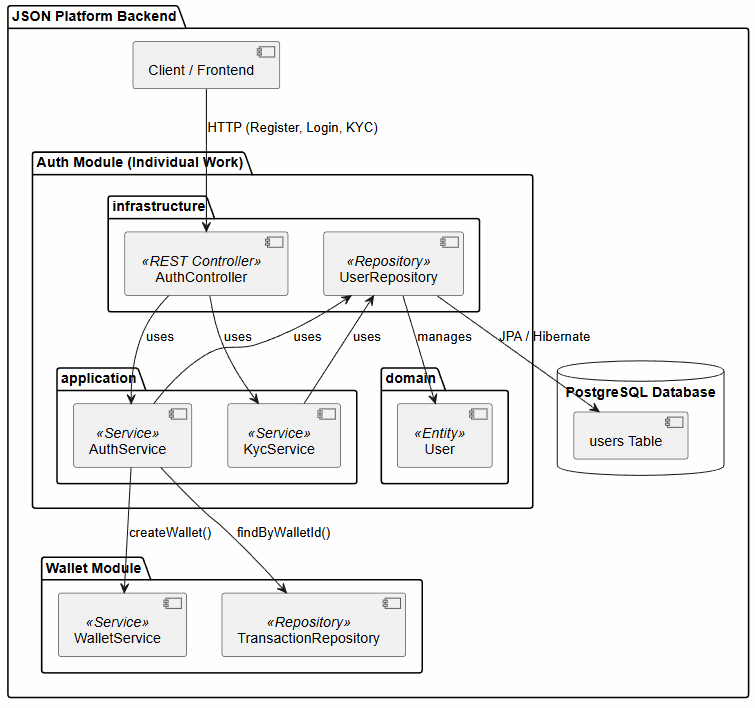
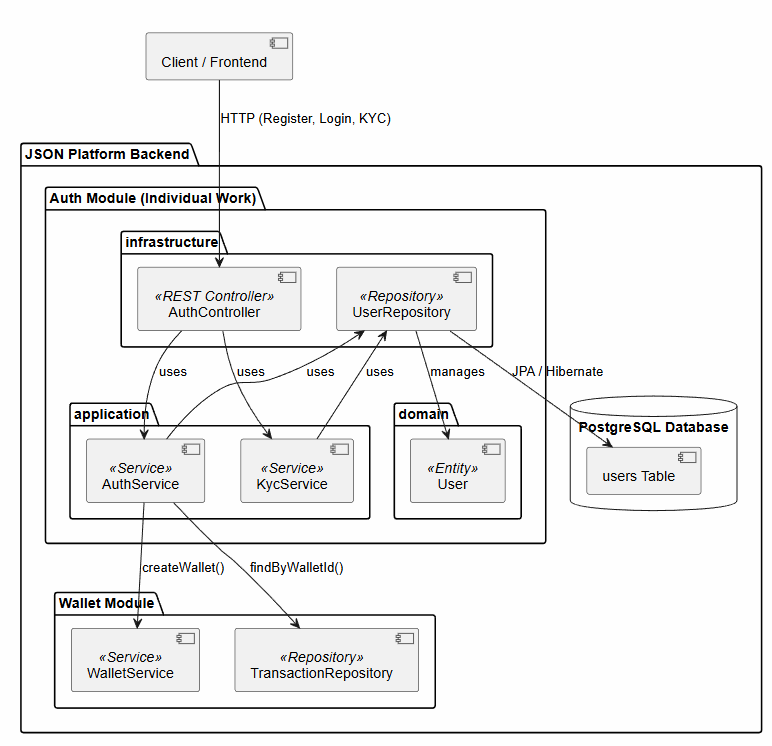
fix: change the auth's component diagram so  client/frontend outside of json backend box

Changed region(s): [[0.0, 0.0, 1.0, 0.9944]]

diff --git a/README.md b/README.md
@@ -59,8 +59,8 @@ jauh lebih tangguh (High Availability) dan siap menampung lonjakan user tanpa ta
 * **Code Diagram**: [Masukkan tautan/gambar Code Diagram individual]
 
 ### Rafasya M. Subhan - 2406409542
-* **Component Diagram**: ![Auth's Component Diagram](static/images/Component%20Diagram%20-%20Auth.png)
-* **Code Diagram**:
+* **Component Diagram**: ![Component Diagram - Auth.png](static/images/Component%20Diagram%20-%20Auth.png)
+* **Code Diagram**: 
 ### 1. Entity and Domain Model
 ![Entity & Domain Model.png](static/images/Entity%20%26%20Domain%20Model.png)
 ### 2. Controller & DTO
